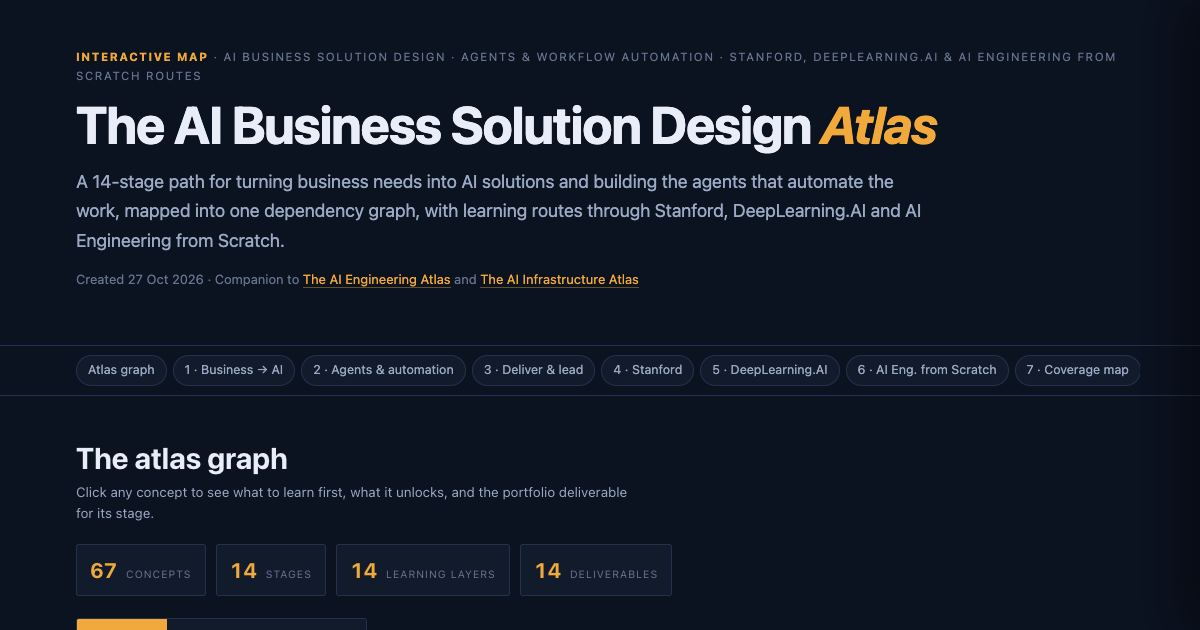
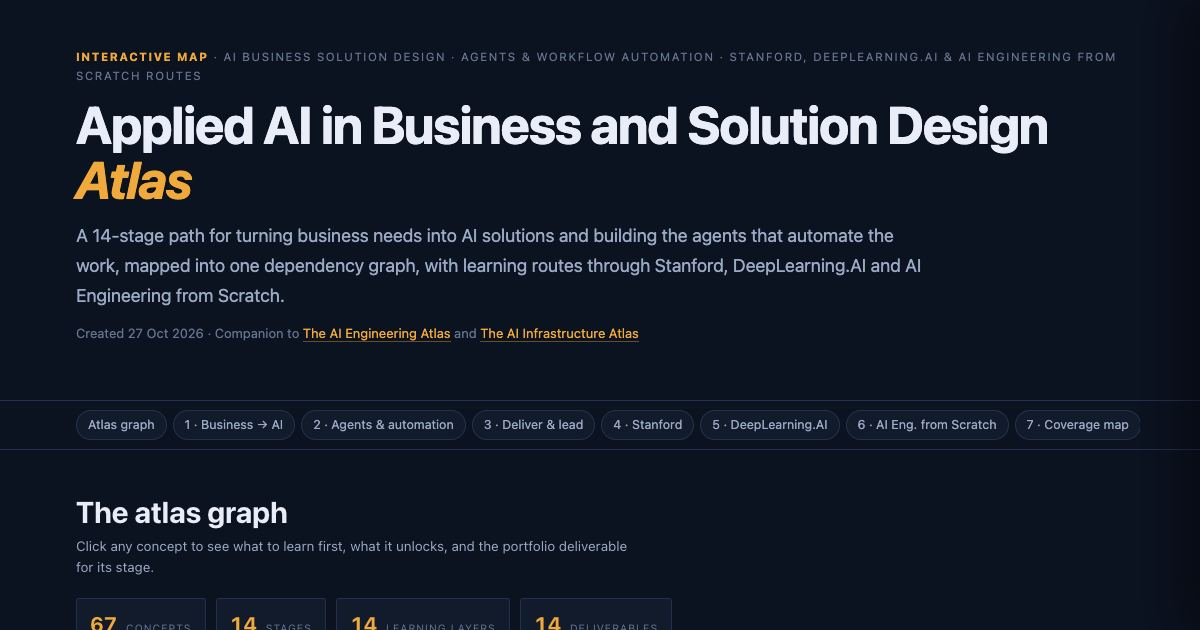
Rename business atlas to Applied AI in Business and Solution Design Atlas
Updates the page title, heading, social title, listing card and
thumbnail. The URL slug stays the same.

Changed region(s): [[0.0617, 0.5127, 0.8325, 1.0], [0.0617, 0.1508, 0.8942, 0.4825], [0.8633, 0.5429, 0.9558, 0.7238]]

diff --git a/blogs/index.html b/blogs/index.html
@@ -62,7 +62,7 @@
   <section class="wrap blog-list" aria-label="All pages">
     <div class="highlight-list">
 <!-- build:blog-list -->
-<a class="highlight-card blog-card" href="ai-business-solution-design-atlas.html"><div class="highlight-art has-image"><img src="thumbs/ai-business-solution-design-atlas.jpg" alt="The AI Business Solution Design Atlas: a layered dependency graph of business and agent concepts" width="1200" height="630" loading="lazy"></div><div class="highlight-body"><p class="highlight-kicker"><span>Interactive map · <time datetime="2026-10-27">27 Oct 2026</time></span></p><h3 class="highlight-title">The AI Business Solution Design Atlas</h3><p class="highlight-desc">A 14-stage dependency graph for turning business needs into AI solutions and building the agents that automate business workflows, with learning routes through Stanford, DeepLearning.AI and AI Engineering from Scratch.</p><span class="highlight-cta">Explore the Atlas <svg viewBox="0 0 24 24" fill="none" stroke="currentColor" stroke-width="2" stroke-linecap="round" stroke-linejoin="round" aria-hidden="true"><path d="M5 12h14M13 6l6 6-6 6"/></svg></span></div></a>
+<a class="highlight-card blog-card" href="ai-business-solution-design-atlas.html"><div class="highlight-art has-image"><img src="thumbs/ai-business-solution-design-atlas.jpg" alt="Applied AI in Business and Solution Design Atlas: a layered dependency graph of business and agent concepts" width="1200" height="630" loading="lazy"></div><div class="highlight-body"><p class="highlight-kicker"><span>Interactive map · <time datetime="2026-10-27">27 Oct 2026</time></span></p><h3 class="highlight-title">Applied AI in Business and Solution Design Atlas</h3><p class="highlight-desc">A 14-stage dependency graph for turning business needs into AI solutions and building the agents that automate business workflows, with learning routes through Stanford, DeepLearning.AI and AI Engineering from Scratch.</p><span class="highlight-cta">Explore the Atlas <svg viewBox="0 0 24 24" fill="none" stroke="currentColor" stroke-width="2" stroke-linecap="round" stroke-linejoin="round" aria-hidden="true"><path d="M5 12h14M13 6l6 6-6 6"/></svg></span></div></a>
 <a class="highlight-card blog-card" href="ai-infrastructure-atlas.html"><div class="highlight-art has-image"><img src="thumbs/ai-infrastructure-atlas.jpg" alt="The AI Infrastructure Atlas: a layered dependency graph of AI infrastructure concepts" width="1200" height="630" loading="lazy"></div><div class="highlight-body"><p class="highlight-kicker"><span>Interactive map · <time datetime="2026-10-26">26 Oct 2026</time></span></p><h3 class="highlight-title">The AI Infrastructure Atlas</h3><p class="highlight-desc">A 12-stage dependency graph from GPU fundamentals to cluster-scale inference, the learning path for running open models on your own GPUs, course routes through Stanford and DeepLearning.AI, and 14 hands-on labs.</p><span class="highlight-cta">Explore the Atlas <svg viewBox="0 0 24 24" fill="none" stroke="currentColor" stroke-width="2" stroke-linecap="round" stroke-linejoin="round" aria-hidden="true"><path d="M5 12h14M13 6l6 6-6 6"/></svg></span></div></a>
 <a class="highlight-card blog-card" href="vietnam-ai-jobs-2026.html"><div class="highlight-art has-image"><img src="thumbs/vietnam-ai-jobs-2026.jpg" alt="What Vietnam Hires AI People to Do: report summary charts" width="1200" height="630" loading="lazy"></div><div class="highlight-body"><p class="highlight-kicker"><span>Market report · <time datetime="2026-10-26">26 Oct 2026</time></span></p><h3 class="highlight-title">What Vietnam Hires AI People to Do</h3><p class="highlight-desc">Job descriptions from three Vietnamese job sites, read and coded: what employers expect AI-era engineers to do, which business problems they pay to solve, and what it pays.</p><span class="highlight-cta">Read the report <svg viewBox="0 0 24 24" fill="none" stroke="currentColor" stroke-width="2" stroke-linecap="round" stroke-linejoin="round" aria-hidden="true"><path d="M5 12h14M13 6l6 6-6 6"/></svg></span></div></a>
 <a class="highlight-card blog-card" href="stanford-cs-radar.html"><div class="highlight-art has-image"><img src="thumbs/stanford-cs-radar.jpg" alt="How Stanford Is Transforming CS in the AI Era: course radar" width="1200" height="630" loading="lazy"></div><div class="highlight-body"><p class="highlight-kicker"><span>Course radar · <time datetime="2026-10-22">22 Oct 2026</time></span></p><h3 class="highlight-title">How Stanford Is Transforming CS in the AI Era</h3><p class="highlight-desc">What Stanford&#39;s CS department added, renamed and retired for 2026–27, what that says about where AI is heading, the fundamentals to learn first, and curated learning paths.</p><span class="highlight-cta">Read the radar <svg viewBox="0 0 24 24" fill="none" stroke="currentColor" stroke-width="2" stroke-linecap="round" stroke-linejoin="round" aria-hidden="true"><path d="M5 12h14M13 6l6 6-6 6"/></svg></span></div></a>

diff --git a/blogs/ai-business-solution-design-atlas.html b/blogs/ai-business-solution-design-atlas.html
@@ -3,11 +3,11 @@
 <head>
 <meta charset="utf-8">
 <meta name="viewport" content="width=device-width, initial-scale=1, viewport-fit=cover">
-<title>The AI Business Solution Design Atlas — Nguyễn Đăng Khoa</title>
+<title>Applied AI in Business and Solution Design Atlas — Nguyễn Đăng Khoa</title>
 <meta name="description" content="A 14-stage dependency graph for turning business needs into AI solutions and building the agents that automate business workflows, with Stanford, DeepLearning.AI and AI Engineering from Scratch learning routes.">
 <link rel="canonical" href="https://nguyendangkhoa.info/blogs/ai-business-solution-design-atlas.html">
 <meta property="og:type" content="article">
-<meta property="og:title" content="The AI Business Solution Design Atlas">
+<meta property="og:title" content="Applied AI in Business and Solution Design Atlas">
 <meta property="og:description" content="67 concepts in one dependency graph: discovery, solution design, business cases, AI agents and workflow automation, with three learning routes.">
 <meta property="og:url" content="https://nguyendangkhoa.info/blogs/ai-business-solution-design-atlas.html">
 <meta name="twitter:card" content="summary">
@@ -211,7 +211,7 @@ footer{color:var(--fg3);font-size:13px;padding-block:28px 56px;margin-top:40px;b
 <body>
 <header class="wrap">
   <p class="kicker"><b>Interactive map</b> · AI business solution design · agents &amp; workflow automation · Stanford, DeepLearning.AI &amp; AI Engineering from Scratch routes</p>
-  <h1>The AI Business Solution Design <em>Atlas</em></h1>
+  <h1>Applied AI in Business and Solution Design <em>Atlas</em></h1>
   <p class="lede">A 14-stage path for turning business needs into AI solutions and building the agents that automate the work, mapped into one dependency graph, with learning routes through Stanford, DeepLearning.AI and AI Engineering from Scratch.</p>
   <p class="small">Created <time datetime="2026-10-27">27 Oct 2026</time> · Companion to <a href="ai-engineering-atlas.html">The AI Engineering Atlas</a> and <a href="ai-infrastructure-atlas.html">The AI Infrastructure Atlas</a></p>
 </header>
